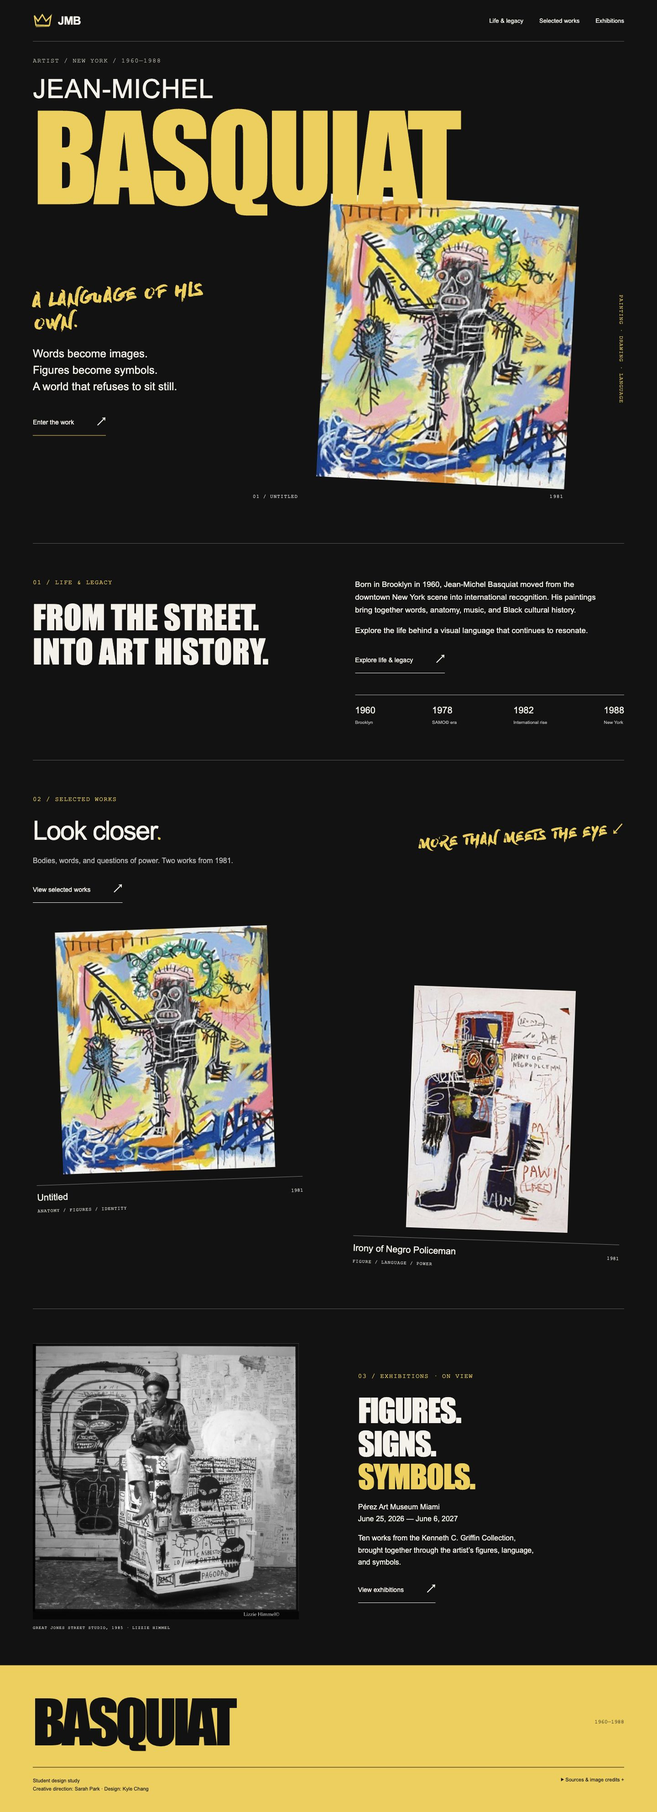
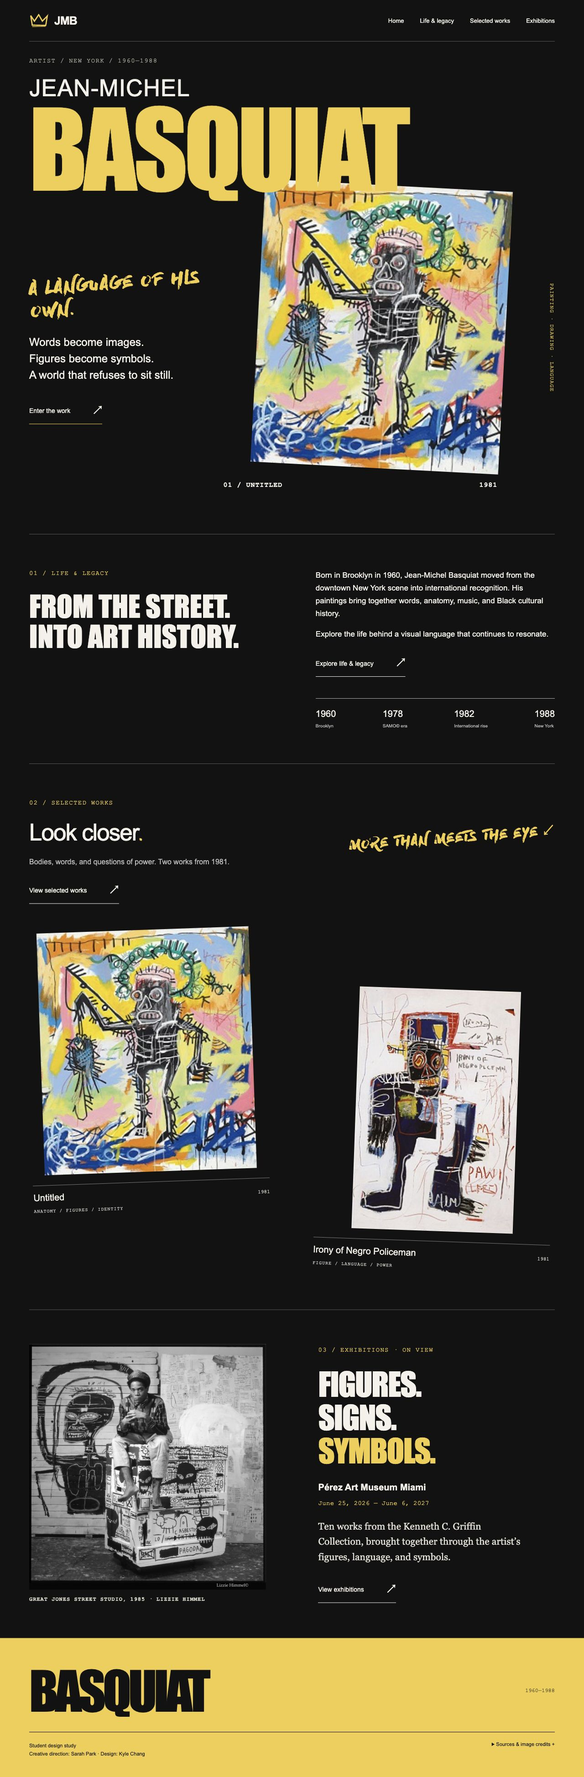
Add files via upload

diff --git a/microsite/initial-build/works.html b/microsite/initial-build/works.html
@@ -1,7 +1,8 @@
 <!doctype html>
 <html lang="en"><head><meta charset="UTF-8"><meta name="viewport" content="width=device-width, initial-scale=1"><title>Selected works — Jean-Michel Basquiat</title><link rel="stylesheet" href="style.css"></head>
-<body><header><a class="wordmark" href="index.html" aria-label="JMB home"><svg aria-hidden="true" viewBox="0 0 64 44"><path d="M5 6 17 24 31 3 43 24 59 7 54 38 10 37Z" fill="none" stroke="currentColor" stroke-width="4" stroke-linejoin="miter"/><path d="m10 42 43-1" stroke="currentColor" stroke-width="2"/></svg><span>JMB</span></a><nav aria-label="Main navigation"><a href="life.html">Life & legacy</a><a href="works.html">Selected works</a><a href="exhibitions.html">Exhibitions</a></nav><details class="mobile-menu"><summary>Menu +</summary><nav><a href="life.html">Life & legacy</a><a href="works.html">Selected works</a><a href="exhibitions.html">Exhibitions</a><a href="#sources">Sources</a></nav></details></header>
-<main class="detail-page"><a class="text-link" href="index.html">← Back to home</a><h1>Selected works</h1><p class="lede">A closer look at the figure, the written word, and the marks between them. Select an artwork to open its source and further reading.</p><div class="art-grid"><figure><a href="https://en.wikipedia.org/wiki/Untitled_(1981_painting)" target="_blank" rel="noopener"><img src="assets/untitled-1981.jpg" alt="Untitled, 1981 — a skeletal figure on a multicolored ground"></a><figcaption><div><h3>Untitled</h3><span>1981</span></div><p class="tags">ANATOMY / FIGURES / IDENTITY</p><p>A skeletal figure occupies a field of yellow, blue, and pink. Follow its outlines and the marks that surround the body.</p></figcaption></figure><figure><a href="https://en.wikipedia.org/wiki/Irony_of_Negro_Policeman" target="_blank" rel="noopener"><img src="assets/irony-1981.jpg" alt="Irony of Negro Policeman, 1981 — angular figure on a light ground"></a><figcaption><div><h3>Irony of Negro Policeman</h3><span>1981</span></div><p class="tags">FIGURE / LANGUAGE / POWER</p><p>An angular figure, a tall hat, and fragments of writing share the surface. The title sets up a question about identity and authority.</p></figcaption></figure></div><a class="text-link" href="exhibitions.html">See the work on view <span>↗</span></a></main><footer id="sources"><div class="footer-title">BASQUIAT<span>1960—1988</span></div><div class="footer-bottom"><p>Student design study<br>Creative direction: Sarah Park · Design: Kyle Chang</p><details><summary>Sources & image credits +</summary><p>Biography: <a href="https://en.wikipedia.org/wiki/Jean-Michel_Basquiat">Wikipedia</a>. Artwork images: Wikipedia pages for <a href="https://en.wikipedia.org/wiki/Untitled_(1981_painting)">Untitled (1981)</a> and <a href="https://en.wikipedia.org/wiki/Irony_of_Negro_Policeman">Irony of Negro Policeman</a>. Artworks © Estate of Jean-Michel Basquiat. Studio photograph © Lizzie Himmel, via <a href="https://www.pamm.org/en/exhibition/basquiat-figures-signs-symbols/">PAMM</a>. Educational mockup; not an official artist or museum website. Typeface: <a href="https://www.dafont.com/dry-brush.font">Dry Brush by Levi Szekeres</a>.</p></details></div></footer><script>
+<body><header><a class="wordmark" href="index.html" aria-label="JMB home"><svg aria-hidden="true" viewBox="0 0 64 44"><path d="M5 6 17 24 31 3 43 24 59 7 54 38 10 37Z" fill="none" stroke="currentColor" stroke-width="4" stroke-linejoin="miter"/><path d="m10 42 43-1" stroke="currentColor" stroke-width="2"/></svg><span>JMB</span></a><nav aria-label="Main navigation"><a href="index.html">Home</a><a href="life.html">Life & legacy</a><a href="works.html">Selected works</a><a href="exhibitions.html">Exhibitions</a></nav><details class="mobile-menu"><summary>Menu +</summary><nav><a href="index.html">Home</a><a href="life.html">Life & legacy</a><a href="works.html">Selected works</a><a href="exhibitions.html">Exhibitions</a><a href="#sources">Sources</a></nav></details></header>
+<main class="detail-page"><h1>Selected works</h1><p class="lede">Four works from 1981 to 1983 exploring the figure, the written word, and the marks between them. Select an artwork to open its source and further reading.</p><div class="art-grid"><figure><a href="https://en.wikipedia.org/wiki/Untitled_(1981_painting)" target="_blank" rel="noopener"><img src="assets/untitled-1981.jpg" alt="Untitled, 1981 — a skeletal figure on a multicolored ground"></a><figcaption><div><h3>Untitled</h3><span>1981</span></div><p class="tags">ANATOMY / FIGURES / IDENTITY</p><p>A skeletal figure occupies a field of yellow, blue, and pink. Follow its outlines and the marks that surround the body.</p></figcaption></figure><figure><a href="https://en.wikipedia.org/wiki/Irony_of_Negro_Policeman" target="_blank" rel="noopener"><img src="assets/irony-1981.jpg" alt="Irony of Negro Policeman, 1981 — angular figure on a light ground"></a><figcaption><div><h3>Irony of Negro Policeman</h3><span>1981</span></div><p class="tags">FIGURE / LANGUAGE / POWER</p><p>An angular figure, a tall hat, and fragments of writing share the surface. The title sets up a question about identity and authority.</p></figcaption></figure><figure><a href="https://www.thebroad.org/art/jean-michel-basquiat/horn-players" target="_blank" rel="noopener"><img src="assets/horn-players-1983.webp" loading="lazy" alt="Horn Players, 1983 — musicians, repeated words, and painted marks across three dark panels"></a><figcaption><div><h3>Horn Players</h3><span>1983</span></div><p class="tags">JAZZ / RHYTHM / LANGUAGE</p><p>A tribute to Charlie Parker and Dizzy Gillespie. Repeated words and fragmented figures move across three panels, connecting Basquiat's visual rhythm with jazz improvisation.</p><p class="art-source"><a href="https://www.thebroad.org/art/jean-michel-basquiat/horn-players" target="_blank" rel="noopener">Collection &amp; image: The Broad ↗</a><br>Photograph: Douglas M. Parker Studio, Los Angeles.</p></figcaption></figure>
+<figure><a href="https://whitney.org/collection/works/453" target="_blank" rel="noopener"><img src="assets/hollywood-africans-1983.jpg" loading="lazy" alt="Hollywood Africans, 1983 — three faces and handwritten words on a bright yellow ground"></a><figcaption><div><h3>Hollywood Africans</h3><span>1983</span></div><p class="tags">IDENTITY / FILM / REPRESENTATION</p><p>Basquiat pictured himself with Rammellzee and Toxic during a visit to Los Angeles. The surrounding words question the stereotypes and restricted roles assigned to Black performers in Hollywood.</p><p class="art-source"><a href="https://whitney.org/collection/works/453" target="_blank" rel="noopener">Collection &amp; image: Whitney Museum of American Art ↗</a><br>Gift of Douglas S. Cramer.</p></figcaption></figure></div><a class="text-link" href="exhibitions.html">See the work on view <span>↗</span></a></main><footer id="sources"><div class="footer-title">BASQUIAT<span>1960—1988</span></div><div class="footer-bottom"><p>Student design study<br>Creative direction: Sarah Park · Design: Kyle Chang</p><details><summary>Sources & image credits +</summary><p>Biography: <a href="https://en.wikipedia.org/wiki/Jean-Michel_Basquiat">Wikipedia</a>. Artwork images: Wikipedia pages for <a href="https://en.wikipedia.org/wiki/Untitled_(1981_painting)">Untitled (1981)</a> and <a href="https://en.wikipedia.org/wiki/Irony_of_Negro_Policeman">Irony of Negro Policeman</a>. Additional artwork images and research: <a href="https://www.thebroad.org/art/jean-michel-basquiat/horn-players">The Broad: Horn Players</a> and <a href="https://whitney.org/collection/works/453">Whitney Museum: Hollywood Africans</a>. Artworks © The Estate of Jean-Michel Basquiat. Licensed by Artestar, New York. Studio photograph © Lizzie Himmel, via <a href="https://www.pamm.org/en/exhibition/basquiat-figures-signs-symbols/">PAMM</a>. Educational mockup; not an official artist or museum website. Typeface: <a href="https://www.dafont.com/dry-brush.font">Dry Brush by Levi Szekeres</a>.</p></details></div></footer><script>
 document.querySelectorAll('.mobile-menu a').forEach(function(link) {
   link.addEventListener('click', function() {
     document.querySelector('.mobile-menu').removeAttribute('open');

diff --git a/microsite/initial-build/index.html b/microsite/initial-build/index.html
@@ -1,10 +1,10 @@
 <!doctype html>
 <html lang="en"><head><meta charset="UTF-8"><meta name="viewport" content="width=device-width, initial-scale=1"><title>Jean-Michel Basquiat</title><link rel="stylesheet" href="style.css"></head>
-<body><header><a class="wordmark" href="index.html" aria-label="JMB home"><svg aria-hidden="true" viewBox="0 0 64 44"><path d="M5 6 17 24 31 3 43 24 59 7 54 38 10 37Z" fill="none" stroke="currentColor" stroke-width="4" stroke-linejoin="miter"/><path d="m10 42 43-1" stroke="currentColor" stroke-width="2"/></svg><span>JMB</span></a><nav aria-label="Main navigation"><a href="life.html">Life & legacy</a><a href="works.html">Selected works</a><a href="exhibitions.html">Exhibitions</a></nav><details class="mobile-menu"><summary>Menu +</summary><nav><a href="life.html">Life & legacy</a><a href="works.html">Selected works</a><a href="exhibitions.html">Exhibitions</a><a href="#sources">Sources</a></nav></details></header>
+<body><header><a class="wordmark" href="index.html" aria-label="JMB home"><svg aria-hidden="true" viewBox="0 0 64 44"><path d="M5 6 17 24 31 3 43 24 59 7 54 38 10 37Z" fill="none" stroke="currentColor" stroke-width="4" stroke-linejoin="miter"/><path d="m10 42 43-1" stroke="currentColor" stroke-width="2"/></svg><span>JMB</span></a><nav aria-label="Main navigation"><a href="index.html">Home</a><a href="life.html">Life & legacy</a><a href="works.html">Selected works</a><a href="exhibitions.html">Exhibitions</a></nav><details class="mobile-menu"><summary>Menu +</summary><nav><a href="index.html">Home</a><a href="life.html">Life & legacy</a><a href="works.html">Selected works</a><a href="exhibitions.html">Exhibitions</a><a href="#sources">Sources</a></nav></details></header>
 <main><section class="hero"><div class="hero-label">ARTIST / NEW YORK / 1960—1988</div><h1><span>JEAN-MICHEL</span><strong>BASQUIAT</strong></h1><div class="hero-grid"><div class="hero-copy"><span class="hand">A language of his own.</span><p>Words become images.<br>Figures become symbols.<br>A world that refuses to sit still.</p><a class="text-link" href="works.html">Enter the work <span>↗</span></a></div><figure class="hero-art"><img src="assets/untitled-1981.jpg" alt="Jean-Michel Basquiat's multicolored figure painting Untitled, 1981"><figcaption><span>01 / UNTITLED</span><span>1981</span></figcaption></figure><div class="side-note">PAINTING · DRAWING · LANGUAGE</div></div></section>
 <section class="intro" id="life"><div><p class="eyebrow">01 / LIFE & LEGACY</p><h2>From the street.<br>Into art history.</h2></div><div><p>Born in Brooklyn in 1960, Jean-Michel Basquiat moved from the downtown New York scene into international recognition. His paintings bring together words, anatomy, music, and Black cultural history.</p><p>Explore the life behind a visual language that continues to resonate.</p><a class="text-link section-link" href="life.html">Explore life &amp; legacy <span>↗</span></a><div class="timeline"><span>1960<br><small>Brooklyn</small></span><span>1978<br><small>SAMO© era</small></span><span>1982<br><small>International rise</small></span><span>1988<br><small>New York</small></span></div></div></section>
 <section id="works" class="works"><div class="section-top"><div><p class="eyebrow">02 / SELECTED WORKS</p><h2>Look closer<span class="hand">.</span></h2></div><span class="hand small-hand">More than meets the eye ↙</span></div><p class="works-intro">Bodies, words, and questions of power. Two works from 1981.</p><a class="text-link section-link" href="works.html">View selected works <span>↗</span></a><div class="art-grid"><figure><a href="https://en.wikipedia.org/wiki/Untitled_(1981_painting)" target="_blank" rel="noopener"><img src="assets/untitled-1981.jpg" alt="Untitled, 1981 — a skeletal figure on a multicolored ground"></a><figcaption><div><h3>Untitled</h3><span>1981</span></div><p>ANATOMY / FIGURES / IDENTITY</p></figcaption></figure><figure><a href="https://en.wikipedia.org/wiki/Irony_of_Negro_Policeman" target="_blank" rel="noopener"><img src="assets/irony-1981.jpg" alt="Irony of Negro Policeman, 1981 — angular figure on a light ground"></a><figcaption><div><h3>Irony of Negro Policeman</h3><span>1981</span></div><p>FIGURE / LANGUAGE / POWER</p></figcaption></figure></div></section>
-<section class="exhibition" id="exhibitions"><figure><img src="assets/studio-1985.jpg" alt="Jean-Michel Basquiat in his Great Jones Street studio with the Box sculpture, 1985"><figcaption>GREAT JONES STREET STUDIO, 1985 · LIZZIE HIMMEL</figcaption></figure><div><p class="eyebrow">03 / EXHIBITIONS · ON VIEW</p><h2>Figures.<br>Signs.<br><em>Symbols.</em></h2><p>Pérez Art Museum Miami<br>June 25, 2026 — June 6, 2027</p><p>Ten works from the Kenneth C. Griffin Collection, brought together through the artist’s figures, language, and symbols.</p><a class="text-link" href="exhibitions.html">View exhibitions <span>↗</span></a></div></section>
+<section class="exhibition" id="exhibitions"><figure><img src="assets/studio-1985.jpg" alt="Jean-Michel Basquiat in his Great Jones Street studio with the Box sculpture, 1985"><figcaption>GREAT JONES STREET STUDIO, 1985 · LIZZIE HIMMEL</figcaption></figure><div><p class="eyebrow">03 / EXHIBITIONS · ON VIEW</p><h2>Figures.<br>Signs.<br><em>Symbols.</em></h2><div class="exhibition-info"><p class="exhibition-venue">Pérez Art Museum Miami</p><p class="exhibition-date">June 25, 2026 — June 6, 2027</p></div><p class="exhibition-description">Ten works from the Kenneth C. Griffin Collection, brought together through the artist’s figures, language, and symbols.</p><a class="text-link" href="exhibitions.html">View exhibitions <span>↗</span></a></div></section>
 </main><footer id="sources"><div class="footer-title">BASQUIAT<span>1960—1988</span></div><div class="footer-bottom"><p>Student design study<br>Creative direction: Sarah Park · Design: Kyle Chang</p><details><summary>Sources & image credits +</summary><p>Biography: <a href="https://en.wikipedia.org/wiki/Jean-Michel_Basquiat">Wikipedia</a>. Artwork images: Wikipedia pages for <a href="https://en.wikipedia.org/wiki/Untitled_(1981_painting)">Untitled (1981)</a> and <a href="https://en.wikipedia.org/wiki/Irony_of_Negro_Policeman">Irony of Negro Policeman</a>. Artworks © Estate of Jean-Michel Basquiat. Studio photograph © Lizzie Himmel, via <a href="https://www.pamm.org/en/exhibition/basquiat-figures-signs-symbols/">PAMM</a>. Educational mockup; not an official artist or museum website. Typeface: <a href="https://www.dafont.com/dry-brush.font">Dry Brush by Levi Szekeres</a>.</p></details></div></footer><script>
 document.querySelectorAll('.mobile-menu a').forEach(function(link) {
   link.addEventListener('click', function() {

diff --git a/microsite/initial-build/life.html b/microsite/initial-build/life.html
@@ -1,7 +1,7 @@
 <!doctype html>
 <html lang="en"><head><meta charset="UTF-8"><meta name="viewport" content="width=device-width, initial-scale=1"><title>Life &amp; legacy — Jean-Michel Basquiat</title><link rel="stylesheet" href="style.css"></head>
-<body><header><a class="wordmark" href="index.html" aria-label="JMB home"><svg aria-hidden="true" viewBox="0 0 64 44"><path d="M5 6 17 24 31 3 43 24 59 7 54 38 10 37Z" fill="none" stroke="currentColor" stroke-width="4" stroke-linejoin="miter"/><path d="m10 42 43-1" stroke="currentColor" stroke-width="2"/></svg><span>JMB</span></a><nav aria-label="Main navigation"><a href="life.html">Life & legacy</a><a href="works.html">Selected works</a><a href="exhibitions.html">Exhibitions</a></nav><details class="mobile-menu"><summary>Menu +</summary><nav><a href="life.html">Life & legacy</a><a href="works.html">Selected works</a><a href="exhibitions.html">Exhibitions</a><a href="#sources">Sources</a></nav></details></header>
-<main class="detail-page"><a class="text-link" href="index.html">← Back to home</a><h1>Life &amp; legacy</h1><p class="lede">Brooklyn beginnings. Downtown experiments. A lasting visual language.</p><section class="detail-row"><h2>1960–1977<br><span class="hand">Beginnings</span></h2><p>Born in Brooklyn to a Haitian father and Puerto Rican mother, Basquiat grew up in New York. Drawing and an interest in anatomy would become part of his artistic vocabulary.</p></section><section class="detail-row"><h2>1978–1980<br><span class="hand">Downtown</span></h2><p>Working under the name SAMO with Al Diaz, he brought cryptic phrases into the city's streets. His early practice also included music with the band Gray.</p></section><section class="detail-row"><h2>1981–1986<br><span class="hand">Recognition</span></h2><p>Gallery exhibitions brought international attention. Painting, drawing, language, and collaboration became central to his career, including his work with Andy Warhol.</p></section><section class="detail-row"><h2>1988 &amp; beyond<br><span class="hand">Legacy</span></h2><p>Basquiat died in New York in 1988, aged 27. His work continues to shape conversations about race, identity, power, and the boundaries between popular culture and fine art.</p></section><a class="text-link" href="works.html">Discover the work <span>↗</span></a></main><footer id="sources"><div class="footer-title">BASQUIAT<span>1960—1988</span></div><div class="footer-bottom"><p>Student design study<br>Creative direction: Sarah Park · Design: Kyle Chang</p><details><summary>Sources & image credits +</summary><p>Biography: <a href="https://en.wikipedia.org/wiki/Jean-Michel_Basquiat">Wikipedia</a>. Artwork images: Wikipedia pages for <a href="https://en.wikipedia.org/wiki/Untitled_(1981_painting)">Untitled (1981)</a> and <a href="https://en.wikipedia.org/wiki/Irony_of_Negro_Policeman">Irony of Negro Policeman</a>. Artworks © Estate of Jean-Michel Basquiat. Studio photograph © Lizzie Himmel, via <a href="https://www.pamm.org/en/exhibition/basquiat-figures-signs-symbols/">PAMM</a>. Educational mockup; not an official artist or museum website. Typeface: <a href="https://www.dafont.com/dry-brush.font">Dry Brush by Levi Szekeres</a>.</p></details></div></footer><script>
+<body><header><a class="wordmark" href="index.html" aria-label="JMB home"><svg aria-hidden="true" viewBox="0 0 64 44"><path d="M5 6 17 24 31 3 43 24 59 7 54 38 10 37Z" fill="none" stroke="currentColor" stroke-width="4" stroke-linejoin="miter"/><path d="m10 42 43-1" stroke="currentColor" stroke-width="2"/></svg><span>JMB</span></a><nav aria-label="Main navigation"><a href="index.html">Home</a><a href="life.html">Life & legacy</a><a href="works.html">Selected works</a><a href="exhibitions.html">Exhibitions</a></nav><details class="mobile-menu"><summary>Menu +</summary><nav><a href="index.html">Home</a><a href="life.html">Life & legacy</a><a href="works.html">Selected works</a><a href="exhibitions.html">Exhibitions</a><a href="#sources">Sources</a></nav></details></header>
+<main class="detail-page"><h1>Life &amp; legacy</h1><p class="lede">Brooklyn beginnings. Downtown experiments. A lasting visual language.</p><section class="detail-row"><h2>1960–1977<br><span class="hand">Beginnings</span></h2><p>Born in Brooklyn to a Haitian father and Puerto Rican mother, Basquiat grew up in New York. Drawing and an interest in anatomy would become part of his artistic vocabulary.</p></section><section class="detail-row"><h2>1978–1980<br><span class="hand">Downtown</span></h2><p>Working under the name SAMO with Al Diaz, he brought cryptic phrases into the city's streets. His early practice also included music with the band Gray.</p></section><section class="detail-row"><h2>1981–1986<br><span class="hand">Recognition</span></h2><p>Gallery exhibitions brought international attention. Painting, drawing, language, and collaboration became central to his career, including his work with Andy Warhol.</p></section><section class="detail-row"><h2>1988 &amp; beyond<br><span class="hand">Legacy</span></h2><p>Basquiat died in New York in 1988, aged 27. His work continues to shape conversations about race, identity, power, and the boundaries between popular culture and fine art.</p></section><a class="text-link" href="works.html">Discover the work <span>↗</span></a></main><footer id="sources"><div class="footer-title">BASQUIAT<span>1960—1988</span></div><div class="footer-bottom"><p>Student design study<br>Creative direction: Sarah Park · Design: Kyle Chang</p><details><summary>Sources & image credits +</summary><p>Biography: <a href="https://en.wikipedia.org/wiki/Jean-Michel_Basquiat">Wikipedia</a>. Artwork images: Wikipedia pages for <a href="https://en.wikipedia.org/wiki/Untitled_(1981_painting)">Untitled (1981)</a> and <a href="https://en.wikipedia.org/wiki/Irony_of_Negro_Policeman">Irony of Negro Policeman</a>. Artworks © Estate of Jean-Michel Basquiat. Studio photograph © Lizzie Himmel, via <a href="https://www.pamm.org/en/exhibition/basquiat-figures-signs-symbols/">PAMM</a>. Educational mockup; not an official artist or museum website. Typeface: <a href="https://www.dafont.com/dry-brush.font">Dry Brush by Levi Szekeres</a>.</p></details></div></footer><script>
 document.querySelectorAll('.mobile-menu a').forEach(function(link) {
   link.addEventListener('click', function() {
     document.querySelector('.mobile-menu').removeAttribute('open');

diff --git a/microsite/initial-build/exhibitions.html b/microsite/initial-build/exhibitions.html
@@ -1,7 +1,7 @@
 <!doctype html>
 <html lang="en"><head><meta charset="UTF-8"><meta name="viewport" content="width=device-width, initial-scale=1"><title>Exhibitions — Jean-Michel Basquiat</title><link rel="stylesheet" href="style.css"></head>
-<body><header><a class="wordmark" href="index.html" aria-label="JMB home"><svg aria-hidden="true" viewBox="0 0 64 44"><path d="M5 6 17 24 31 3 43 24 59 7 54 38 10 37Z" fill="none" stroke="currentColor" stroke-width="4" stroke-linejoin="miter"/><path d="m10 42 43-1" stroke="currentColor" stroke-width="2"/></svg><span>JMB</span></a><nav aria-label="Main navigation"><a href="life.html">Life & legacy</a><a href="works.html">Selected works</a><a href="exhibitions.html">Exhibitions</a></nav><details class="mobile-menu"><summary>Menu +</summary><nav><a href="life.html">Life & legacy</a><a href="works.html">Selected works</a><a href="exhibitions.html">Exhibitions</a><a href="#sources">Sources</a></nav></details></header>
-<main class="detail-page"><a class="text-link" href="index.html">← Back to home</a><h1>Exhibitions</h1><p class="lede">Encounter the work in person.</p><section class="exhibition" id="exhibitions"><figure><img src="assets/studio-1985.jpg" alt="Jean-Michel Basquiat in his Great Jones Street studio with the Box sculpture, 1985"><figcaption>GREAT JONES STREET STUDIO, 1985 · LIZZIE HIMMEL</figcaption></figure><div><p class="eyebrow">03 / EXHIBITIONS · ON VIEW</p><h2>Figures.<br>Signs.<br><em>Symbols.</em></h2><p>Pérez Art Museum Miami<br>June 25, 2026 — June 6, 2027</p><p>Ten works from the Kenneth C. Griffin Collection, brought together through the artist’s figures, language, and symbols.</p><a class="text-link" href="https://www.pamm.org/en/exhibition/basquiat-figures-signs-symbols/">Visit the museum website <span>↗</span></a></div></section><p>More exhibition history: <a href="https://en.wikipedia.org/wiki/Jean-Michel_Basquiat#Exhibitions">Jean-Michel Basquiat exhibition archive</a>.</p></main><footer id="sources"><div class="footer-title">BASQUIAT<span>1960—1988</span></div><div class="footer-bottom"><p>Student design study<br>Creative direction: Sarah Park · Design: Kyle Chang</p><details><summary>Sources & image credits +</summary><p>Biography: <a href="https://en.wikipedia.org/wiki/Jean-Michel_Basquiat">Wikipedia</a>. Artwork images: Wikipedia pages for <a href="https://en.wikipedia.org/wiki/Untitled_(1981_painting)">Untitled (1981)</a> and <a href="https://en.wikipedia.org/wiki/Irony_of_Negro_Policeman">Irony of Negro Policeman</a>. Artworks © Estate of Jean-Michel Basquiat. Studio photograph © Lizzie Himmel, via <a href="https://www.pamm.org/en/exhibition/basquiat-figures-signs-symbols/">PAMM</a>. Educational mockup; not an official artist or museum website. Typeface: <a href="https://www.dafont.com/dry-brush.font">Dry Brush by Levi Szekeres</a>.</p></details></div></footer><script>
+<body><header><a class="wordmark" href="index.html" aria-label="JMB home"><svg aria-hidden="true" viewBox="0 0 64 44"><path d="M5 6 17 24 31 3 43 24 59 7 54 38 10 37Z" fill="none" stroke="currentColor" stroke-width="4" stroke-linejoin="miter"/><path d="m10 42 43-1" stroke="currentColor" stroke-width="2"/></svg><span>JMB</span></a><nav aria-label="Main navigation"><a href="index.html">Home</a><a href="life.html">Life & legacy</a><a href="works.html">Selected works</a><a href="exhibitions.html">Exhibitions</a></nav><details class="mobile-menu"><summary>Menu +</summary><nav><a href="index.html">Home</a><a href="life.html">Life & legacy</a><a href="works.html">Selected works</a><a href="exhibitions.html">Exhibitions</a><a href="#sources">Sources</a></nav></details></header>
+<main class="detail-page"><h1>Exhibitions</h1><p class="lede">Encounter the work in person.</p><section class="exhibition" id="exhibitions"><figure><img src="assets/studio-1985.jpg" alt="Jean-Michel Basquiat in his Great Jones Street studio with the Box sculpture, 1985"><figcaption>GREAT JONES STREET STUDIO, 1985 · LIZZIE HIMMEL</figcaption></figure><div><p class="eyebrow">03 / EXHIBITIONS · ON VIEW</p><h2>Figures.<br>Signs.<br><em>Symbols.</em></h2><div class="exhibition-info"><p class="exhibition-venue">Pérez Art Museum Miami</p><p class="exhibition-date">June 25, 2026 — June 6, 2027</p></div><p class="exhibition-description">Ten works from the Kenneth C. Griffin Collection, brought together through the artist’s figures, language, and symbols.</p><a class="text-link" href="https://www.pamm.org/en/exhibition/basquiat-figures-signs-symbols/">Visit the museum website <span>↗</span></a></div></section><p>More exhibition history: <a href="https://en.wikipedia.org/wiki/Jean-Michel_Basquiat#Exhibitions">Jean-Michel Basquiat exhibition archive</a>.</p></main><footer id="sources"><div class="footer-title">BASQUIAT<span>1960—1988</span></div><div class="footer-bottom"><p>Student design study<br>Creative direction: Sarah Park · Design: Kyle Chang</p><details><summary>Sources & image credits +</summary><p>Biography: <a href="https://en.wikipedia.org/wiki/Jean-Michel_Basquiat">Wikipedia</a>. Artwork images: Wikipedia pages for <a href="https://en.wikipedia.org/wiki/Untitled_(1981_painting)">Untitled (1981)</a> and <a href="https://en.wikipedia.org/wiki/Irony_of_Negro_Policeman">Irony of Negro Policeman</a>. Artworks © Estate of Jean-Michel Basquiat. Studio photograph © Lizzie Himmel, via <a href="https://www.pamm.org/en/exhibition/basquiat-figures-signs-symbols/">PAMM</a>. Educational mockup; not an official artist or museum website. Typeface: <a href="https://www.dafont.com/dry-brush.font">Dry Brush by Levi Szekeres</a>.</p></details></div></footer><script>
 document.querySelectorAll('.mobile-menu a').forEach(function(link) {
   link.addEventListener('click', function() {
     document.querySelector('.mobile-menu').removeAttribute('open');

diff --git a/microsite/initial-build/style.css b/microsite/initial-build/style.css
@@ -15,3 +15,22 @@ body{background:#121212;color:#f4f1e9}header{border-color:#555}.hero{position:re
 .hand,.hero-copy .hand{font-family:DryBrush,cursive;font-size:40px;font-weight:400;letter-spacing:.025em;line-height:1.25;transform:rotate(-4deg);text-transform:uppercase}
 .small-hand{font-size:31px}
 @media(max-width:650px){.hand,.hero-copy .hand{font-size:30px}.small-hand{font-size:26px}}
+
+/* Initial-build review: readable captions and exhibition hierarchy. */
+.hero-art figcaption{font:700 15px/1.5 'Courier New',monospace;letter-spacing:.065em;color:#f4f1e9;gap:20px}
+.exhibition figcaption{font:600 12px/1.6 'Courier New',monospace;color:#d8d4c8}
+.exhibition-info{margin:30px 0 22px}
+.exhibition .exhibition-venue{font:700 20px/1.4 Arial,Helvetica,sans-serif;margin:0 0 10px;max-width:none}
+.exhibition .exhibition-date{font:400 14px/1.6 'Courier New',monospace;letter-spacing:.02em;color:#f2ce45;margin:0;max-width:none}
+.exhibition .exhibition-description{font:400 17px/1.65 Georgia,'Times New Roman',serif;color:#e3dfd5;margin:0 0 24px;max-width:450px}
+.detail-page .art-grid{column-gap:10%;row-gap:80px}
+.detail-page .art-grid figure:nth-child(n+3){padding-top:0;transform:rotate(-1deg)}
+.detail-page .art-grid figure:nth-child(4){transform:rotate(1deg);padding-top:70px}
+.detail-page .art-grid figcaption .art-source{font:12px/1.6 'Courier New',monospace;color:#c6c1b5;margin-top:20px}
+@media(max-width:650px){
+ .hero-art figcaption{font-size:14px;letter-spacing:.04em;margin-top:22px}
+ .exhibition .exhibition-venue{font-size:19px}
+ .exhibition .exhibition-date{font-size:13px}
+ .exhibition .exhibition-description{font-size:16px}
+ .detail-page .art-grid figure:nth-child(n+2){padding-top:48px}
+}
